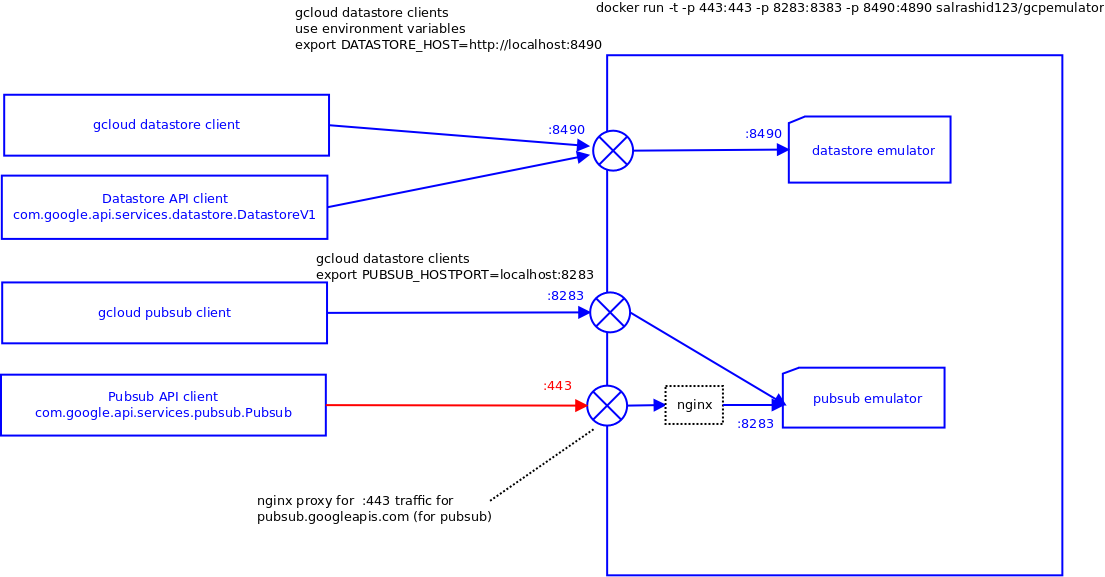
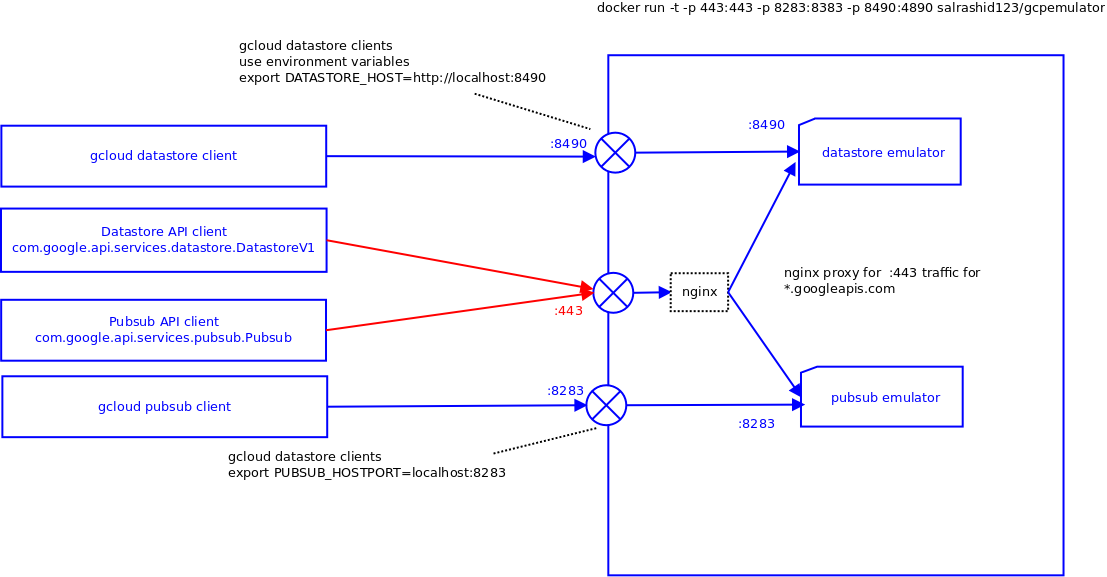
Update to datastore v1beta3 syntax and allow for direct :443 access to datastore emulator

diff --git a/java/src/main/java/com/test/CloudDataStoreClient.java b/java/src/main/java/com/test/CloudDataStoreClient.java
@@ -9,21 +9,22 @@ import com.google.api.client.googleapis.auth.oauth2.GoogleCredential;
 import com.google.api.client.http.HttpTransport;
 import com.google.api.client.http.javanet.NetHttpTransport;
 import com.google.api.client.json.jackson2.JacksonFactory;
-import com.google.api.services.datastore.DatastoreV1.BeginTransactionRequest;
-import com.google.api.services.datastore.DatastoreV1.BeginTransactionResponse;
-import com.google.api.services.datastore.DatastoreV1.CommitRequest;
-import com.google.api.services.datastore.DatastoreV1.Entity;
-import com.google.api.services.datastore.DatastoreV1.Key;
-import com.google.api.services.datastore.DatastoreV1.LookupRequest;
-import com.google.api.services.datastore.DatastoreV1.LookupResponse;
-import com.google.api.services.datastore.DatastoreV1.Property;
-import com.google.api.services.datastore.DatastoreV1.Value;
-import com.google.api.services.datastore.client.Datastore;
-import com.google.api.services.datastore.client.DatastoreFactory;
-import com.google.api.services.datastore.client.DatastoreHelper;
-import com.google.api.services.datastore.client.DatastoreOptions;
-import com.google.protobuf.ByteString;
 
+import com.google.datastore.v1beta3.BeginTransactionRequest;
+import com.google.datastore.v1beta3.BeginTransactionResponse;
+import com.google.datastore.v1beta3.CommitRequest;
+import com.google.datastore.v1beta3.CommitResponse;
+import com.google.datastore.v1beta3.Entity;
+import com.google.datastore.v1beta3.Key;
+import com.google.datastore.v1beta3.LookupRequest;
+import com.google.datastore.v1beta3.LookupResponse;
+import com.google.datastore.v1beta3.Value;
+import com.google.datastore.v1beta3.client.Datastore;
+import com.google.datastore.v1beta3.client.DatastoreException;
+import com.google.datastore.v1beta3.client.DatastoreFactory;
+import com.google.datastore.v1beta3.client.DatastoreHelper;
+import com.google.datastore.v1beta3.client.DatastoreOptions;
+import com.google.protobuf.ByteString;
 
 
 public class CloudDataStoreClient {
@@ -56,15 +57,17 @@ public class CloudDataStoreClient {
 
 			GoogleCredential credential = GoogleCredential.getApplicationDefault();
 			  	credential.setAccessToken("foo");
-			    String datasetID = "p0";
-			    DatastoreOptions b = DatastoreHelper.getOptionsfromEnv().dataset(datasetID).credential(credential).build();
-			    	
-			    Datastore datastore =  DatastoreFactory.get().create(b);			    
+			    String myprojectId = "p0";
+
+                DatastoreOptions options = new DatastoreOptions.Builder().projectId(myprojectId).credential(credential).build();
+                Datastore datastore =   DatastoreFactory.get().create(options);
 
 			      LookupRequest.Builder lreq = LookupRequest.newBuilder();
-			      Key.Builder key = Key.newBuilder().addPathElement(
+
+			      Key.Builder key = Key.newBuilder().addPath(
 			          Key.PathElement.newBuilder().setKind("Employee").setName("aguadypoogznoqofmgmy"));
-			      lreq.addKey(key);
+
+			      lreq.addKeys(key);
 			      LookupResponse lresp = datastore.lookup(lreq.build());
 			      if (lresp.getFoundCount() > 0) {
 			        Entity e = lresp.getFound(0).getEntity();
@@ -81,11 +84,11 @@ public class CloudDataStoreClient {
 			    	  Entity entity;
 			          Entity.Builder entityBuilder = Entity.newBuilder();
 			          entityBuilder.setKey(key);
-			          entityBuilder.addProperty(Property.newBuilder()
-			              .setName("some_string")
-			              .setValue(Value.newBuilder().setStringValue("some value")));
+
+			          entityBuilder.getMutableProperties().put("some_string", Value.newBuilder().setStringValue("some value").build());
+
 			          entity = entityBuilder.build();
-			          creq.getMutationBuilder().addInsert(entity);		
+			          creq.addMutationsBuilder().setInsert(entity);		
 			          datastore.commit(creq.build());
 			      }
 

diff --git a/py/clouddatastoreclient.py b/py/clouddatastoreclient.py
@@ -4,7 +4,7 @@
 from apiclient.errors import HttpError
 from oauth2client.client import AccessTokenRefreshError
 import googledatastore as datastore
-from oauth2client.client import SignedJwtAssertionCredentials
+from googledatastore.helper import *
 from oauth2client.client import GoogleCredentials
 import json
 import pprint
@@ -24,8 +24,8 @@ def clouddatastore_client():
     ch.setLevel(logging.INFO)    
     ch.setFormatter(logFormatter)
     root.addHandler(ch)
-    logging.getLogger('oauth2service.client').setLevel(logging.DEBUG)
-    logging.getLogger('apiclient.discovery').setLevel(logging.DEBUG)
+    logging.getLogger('oauth2service.client').setLevel(logging.INFO)
+    logging.getLogger('apiclient.discovery').setLevel(logging.INFO)
              
     credentials = GoogleCredentials.get_application_default()
       
@@ -36,29 +36,30 @@ def clouddatastore_client():
     credentials.access_token = 'foo'
     print credentials.access_token
 
-    datastore.set_options(dataset='p0', credentials=credentials)
+    datastore.set_options(project_id='p0', credentials=credentials)
     
+
     req = datastore.LookupRequest()
     key = datastore.Key()
-    path = key.path_element.add()
+    path = key.path.add()
     path.kind = 'Employee'
     path.name = 'aguadypoogznoqofmgmy'
-    req.key.extend([key])
+    req.keys.extend([key])
     
     resp = datastore.lookup(req)
     if resp.found:
       entity = resp.found[0].entity 
       print (str(entity))  
-      for prop in entity.property:
+      for prop in entity.properties:
         print 'Lookup: ' + str(prop)
     else:
       print 'entity not found; initialize entity and insert..'
       req = datastore.CommitRequest()
       req.mode = datastore.CommitRequest.NON_TRANSACTIONAL
-      employee = req.mutation.insert.add()
-      path_element = employee.key.path_element.add()
-      path_element.kind = 'Employee'
-      path_element.name = 'aguadypoogznoqofmgmy'
+      employee = req.mutations.add().insert
+      path = employee.key.path.add()
+      path.kind = 'Employee'
+      path.name = 'aguadypoogznoqofmgmy'
       res = datastore.commit(req)             
       print res
       

diff --git a/py/pubsubclient.py b/py/pubsubclient.py
@@ -6,20 +6,18 @@ from oauth2client.file import Storage
 import logging
 import sys
 import os
-from oauth2client.client import SignedJwtAssertionCredentials
 import json
-from oauth2client.client import flow_from_clientsecrets
 from oauth2client.client import GoogleCredentials
 
 logFormatter = logging.Formatter('%(asctime)s - %(name)s - %(levelname)s - %(message)s')                              
 root = logging.getLogger()
-root.setLevel(logging.DEBUG)           
+root.setLevel(logging.INFO)           
 ch = logging.StreamHandler(sys.stdout)
-ch.setLevel(logging.DEBUG)    
+ch.setLevel(logging.INFO)    
 ch.setFormatter(logFormatter)
 root.addHandler(ch)
-logging.getLogger('oauth2service.client').setLevel(logging.DEBUG)
-logging.getLogger('apiclient.discovery').setLevel(logging.DEBUG)   
+logging.getLogger('oauth2service.client').setLevel(logging.INFO)
+logging.getLogger('apiclient.discovery').setLevel(logging.INFO)   
 
 scope = 'https://www.googleapis.com/auth/pubsub'
 
@@ -43,7 +41,7 @@ http = httplib2.Http()
 http = credentials.authorize(http)
 credentials.access_token = 'foo'
 
-httplib2.debuglevel=6
+httplib2.debuglevel=0
 service = build('pubsub', version='v1', http=http)
 topic = service.projects().topics().create(name='projects/p0/topics/t0', body={}).execute()
 #service = build('pubsub', 'v1',discoveryServiceUrl=DISCOVERY_URI, http=http)

diff --git a/java/src/main/java/com/test/CloudPubSubClient.java b/java/src/main/java/com/test/CloudPubSubClient.java
@@ -6,12 +6,12 @@ import java.util.logging.Level;
 import java.util.logging.Logger;
 import java.util.logging.SimpleFormatter;
 
-	import com.google.api.client.googleapis.auth.oauth2.GoogleCredential;
+import com.google.api.client.googleapis.auth.oauth2.GoogleCredential;
 import com.google.api.client.http.HttpTransport;
 import com.google.api.client.http.javanet.NetHttpTransport;
 import com.google.api.client.json.jackson2.JacksonFactory;
 
-	import org.apache.commons.codec.binary.Base64;
+import org.apache.commons.codec.binary.Base64;
 
 import java.io.FileInputStream;
 import java.io.IOException;

diff --git a/README.md b/README.md
@@ -13,10 +13,13 @@ Also see
 * [Cloud Datastore Local Development Server](https://cloud.google.com/datastore/docs/tools/devserver#connecting_your_app_to_the_local_development_server)
 
 ## Overview
-Proxy server and container for GCP Cloud PubSub and Cloud Datastore emulators.  The container basically runs an nginx HTTPS proxy infront of the PubSub so that even direct references to pubsub.googleapis.com:443 are redirected to the emulator.
+Proxy server and container for GCP Cloud PubSub and Cloud Datastore emulators.  In addition, the container runs an nginx HTTPS proxy infront of the PubSub|Datastore emulators so that even direct references to pubsub.googleapis.com:443 and datastore.googleapis.com:443 are redirected to the respective emulator.  
 
-These emulators normally work with gcloud-python or gcloud-java libraries. For Cloud Datastore, the environment variables are directly loaded.  For pubsub, the environment variables are onl loaded when using 'gcloud libraries' (curated, idomatic libraries) but not with raw REST APIs (com.google.api.services.pubsub.Pubsub).  To use the emulator framework with com.google.api.services.pubsub.Pubsub, you need to redirect pubsub.googleapis.com:443 to the emulator on http.  The nginx proxy here performs the translation.
+There are two modes you can use this:  
+*  A container running `gcloud emulators <pubsub|datastore>`.  You can use this mode to test your code built with [gcloud-* libraries](http://googlecloudplatform.github.io/gcloud-java/0.2.3/index.html)
+*  A container running these emulators but one that accepts traffic intended for (pubsub|datastore).googleapis.com:443.  In this mode, you can even use generic, non-gcloud libraries with this api.  For example.  you can use this with Pubsub ([com.google.api.services.pubsub](https://developers.google.com/resources/api-libraries/documentation/pubsub/v1/java/latest/)) and Datastore ([com.google.api.services.datastore](https://cloud.google.com/datastore/docs/apis/javadoc/com/google/api/services/datastore/client/package-summary))
 
+The second mode requires some significant retooling and reconfiguration on your host laptop/system (i.,e you need access to redirect DNS/hosts, install a trust chain for a CA ([CA_cert.pem](dockerimage/html/CA_crt.pem))  that issued a cert for CN=*.googleapis.com which already resides inside the container ([goog_cert.pem](dockerimage/certs/goog_crt.pem)).
 
 ![Overview](images/dia1.png)
 
@@ -30,18 +33,21 @@ To use, you need to
 ** System (not recommended as you are overriding your system's trust store; most companies would frown on this)
 
 
-
 **NOTE**  The proxy sends authentication headers to the proxy.  If you do not want to transmit the auth headers, you can override the access_token field before the API call.
+
+```
+sudo docker run -t -p 443:443 -p 8283:8283 -p 8490:8490 salrashid123/gcpemulator
+```
 
 You can also build the docker image from scratch instead of using prebuild *salrashid123/gcpemulator*
 
  
 ###DNS
-Update DNS resolution for pubsub.googleapis.com
+Update DNS resolution for pubsub.googleapis.com and datastore.googleapis.com
 
 ```
 /etc/hosts
-127.0.0.1  pubsub.googleapis.com
+127.0.0.1  pubsub.googleapis.com datastore.googleapis.com
 
 /etc/init.d/nscd restart
 ```
@@ -61,22 +67,35 @@ testeso, Feb 1, 2016, trustedCertEntry,
 Certificate fingerprint (SHA1): 32:DD:B7:7D:7C:5E:D3:93:22:2F:C4:44:B3:5D:28:E9:41:A8:96:2C
 ```
 
+Then to run
+```
+cd gcpemulator/java
+mvn install
+mvn exec:java
+```
+
 ###PYTHON
 
 ```
+cd gcpemulator/py
 virtualenv gcd
 source gcd/bin/activate
 pip install -r requirements.txt
 ```
 
-Now you need to add the CA_cert.pem to the trust store for httplib2 (used by google api client library)
+Now you need to add the CA_cert.pem to the trust store for the local virtualenv httplib2 (used by google api client library). 
+
 gcd/local/lib/python2.7/site-packages/httplib2/cacerts.txt
 
 ```
 awk 'FNR==1{print ""}1' gcd/local/lib/python2.7/site-packages/httplib2/cacerts.txt ../dockerimage/html/CA_crt.pem > /tmp/cacerts.txt  && cp /tmp/cacerts.txt gcd/local/lib/python2.7/site-packages/httplib2/cacerts.txt
 ```
 
-
+Then to run
+```
+python pubsubclient.py
+python clouddatastoreclient.py
+```
 
 ####CURL
 
